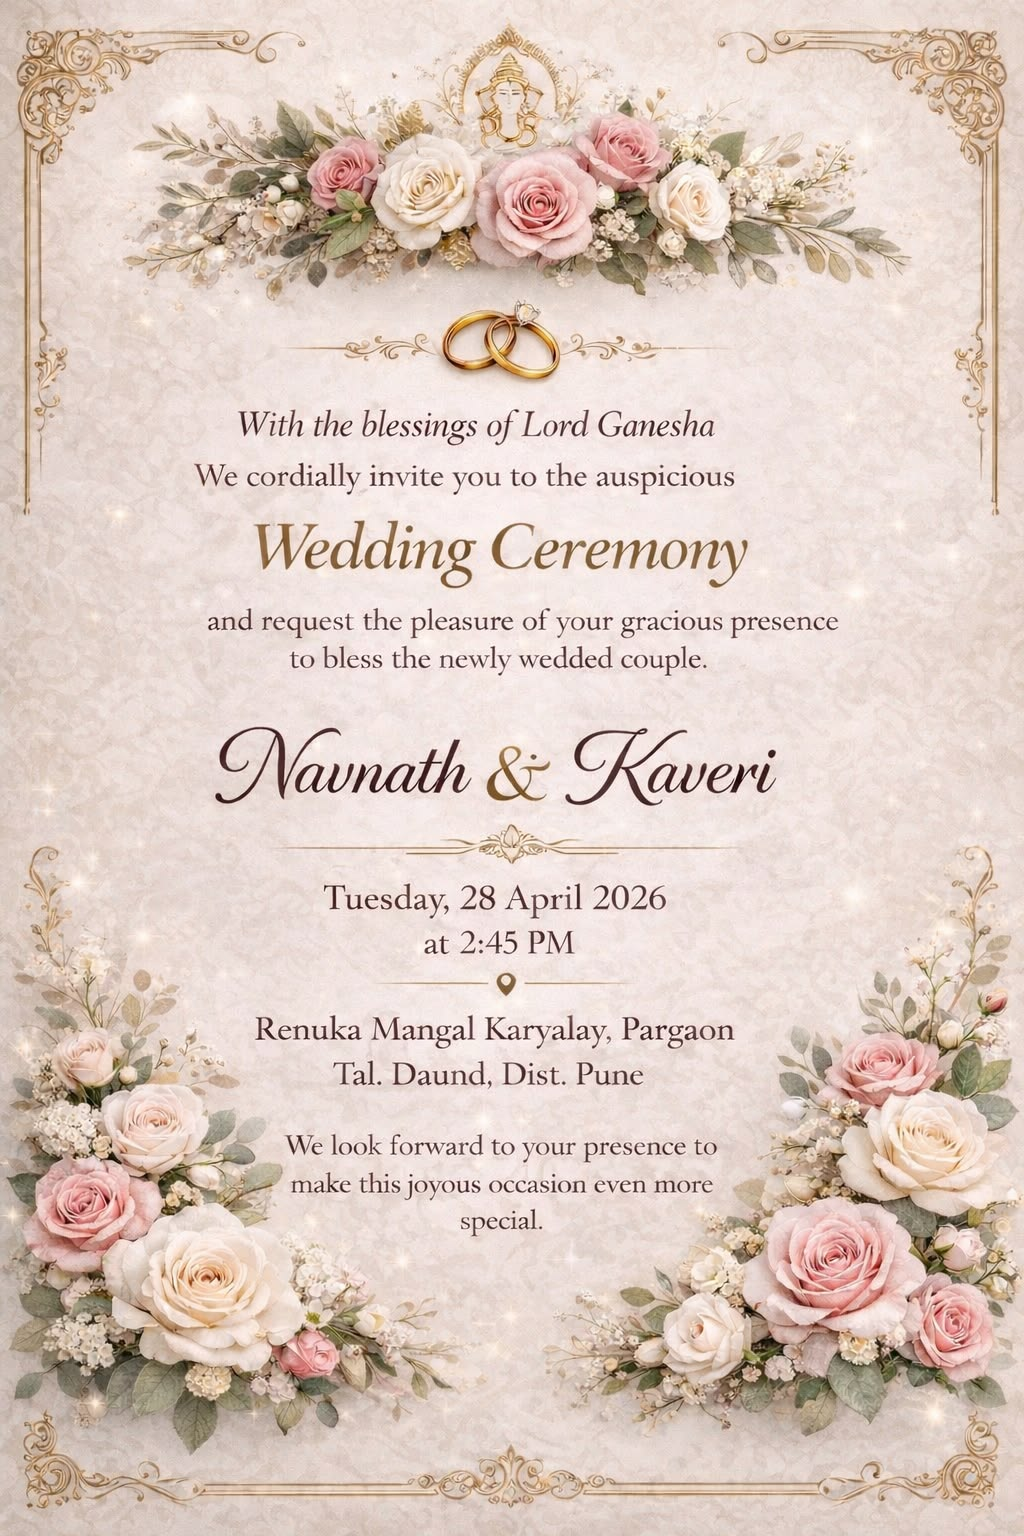
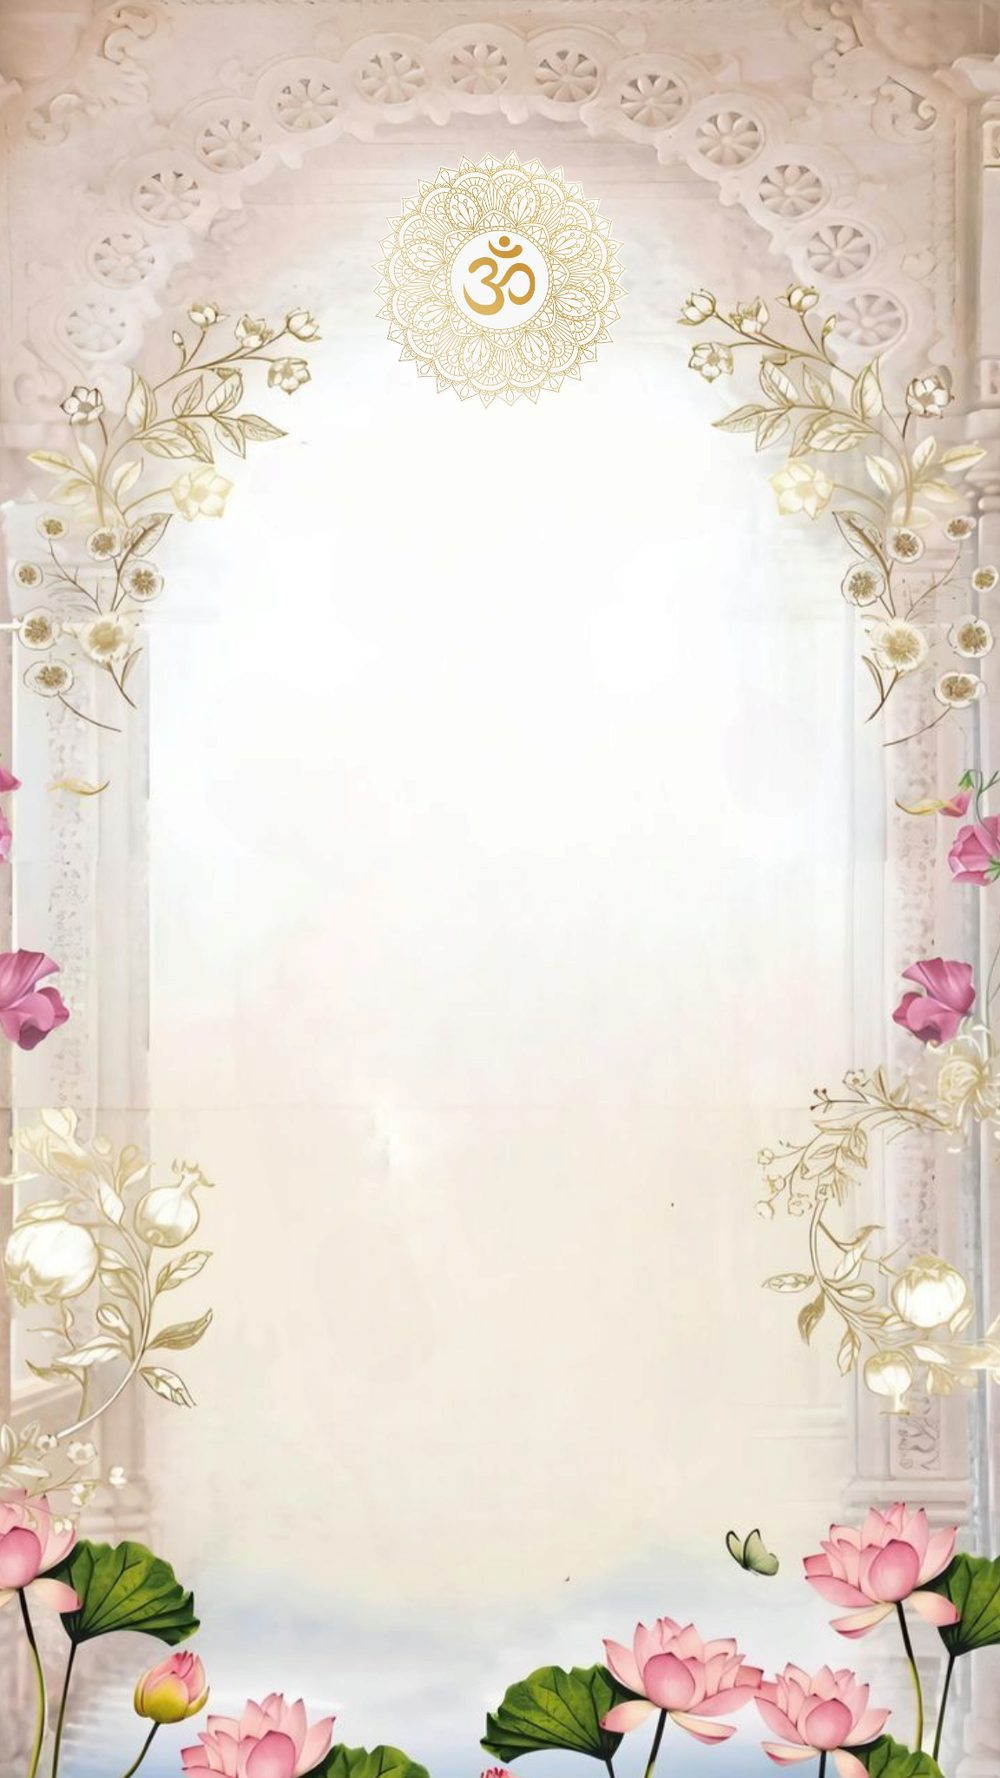
Swap 3 fixed styles to their real reference-site backgrounds
Muslim (Rihana & Suhail), Hindu (Vardhan & Gayathri), and Christian
(Arjun & Meghana) now use their actual reference site's background
asset as a fixed poster-kind template instead of an abstract color
preset, matching the other 6 styles. Sinan & Rifa keeps the flexible
envelope shell but its color preset now matches that site's real
sky-blue/navy/gold palette instead of the placeholder emerald-gold.
Usman & Aisha and Navnath & Kaveri get cleaner text-free background
assets, resolving the baked-in-text ghosting from the previous images.

diff --git a/lib/templates/posterVariants.ts b/lib/templates/posterVariants.ts
@@ -39,17 +39,18 @@ export const TEMPLATE_VARIANTS: TemplateVariant[] = [
     kind: 'envelope',
     religion: 'islamic',
     label: 'Sinan & Rifa style',
-    colorPresetId: 'emerald-gold',
+    colorPresetId: 'sky-gold',
     thumbnail: '/gallery/demo-fairooz-wedding.jpg',
     demo: { brideName: 'Rifa', groomName: 'Sinan', date: '2026-11-22', time: '5:00 PM – 8:00 PM', venue: 'Crescent Banquet Hall', venueCity: 'Kozhikode, Kerala' },
   },
   {
     id: 'muslim-red',
-    kind: 'envelope',
+    kind: 'poster',
     religion: 'islamic',
     label: 'Rihana & Suhail style',
-    colorPresetId: 'crimson-gold',
-    thumbnail: '/gallery/demo-wedding-invitation-two.jpg',
+    backgroundImage: '/backgrounds/muslim-rihana-suhail.jpg',
+    thumbnail: '/backgrounds/muslim-rihana-suhail.jpg',
+    accent: { ink: '#3D0A0A', accent: '#8B1A1A', gold: '#C9A84C', cardBg: '#FFF6EA' },
     demo: { brideName: 'Rihana', groomName: 'Suhail', date: '2026-12-12', time: '4:00 PM – 7:00 PM', venue: 'Al Fajr Convention Centre', venueCity: 'Kondotty, Kerala' },
   },
   {
@@ -66,11 +67,12 @@ export const TEMPLATE_VARIANTS: TemplateVariant[] = [
   // ── Hindu ───────────────────────────────────────────────────────────
   {
     id: 'hindu-ganesh',
-    kind: 'envelope',
+    kind: 'poster',
     religion: 'hindu',
     label: 'Vardhan & Gayathri style',
-    colorPresetId: 'maroon-gold',
-    thumbnail: '/gallery/wedding-vardhan-gayathri.jpg',
+    backgroundImage: '/backgrounds/hindu-vardhan-gayathri.jpg',
+    thumbnail: '/backgrounds/hindu-vardhan-gayathri.jpg',
+    accent: { ink: '#3A1408', accent: '#7A2413', gold: '#B8860B', cardBg: '#F7F0DE' },
     demo: { brideName: 'Gayathri Devi', groomName: 'Vardhan', date: '2026-09-05', time: '11:00 AM (Muhurtham)', venue: 'Sri Kalyana Mandapam', venueCity: 'Chennai, Tamil Nadu' },
   },
   {
@@ -97,11 +99,12 @@ export const TEMPLATE_VARIANTS: TemplateVariant[] = [
   // ── Christian ───────────────────────────────────────────────────────
   {
     id: 'christian-envelope',
-    kind: 'envelope',
+    kind: 'poster',
     religion: 'christian',
     label: 'Arjun & Meghana style',
-    colorPresetId: 'ivory-gold',
-    thumbnail: '/gallery/wedding-arjun-meghana.jpg',
+    backgroundImage: '/backgrounds/christian-arjun-meghana.jpg',
+    thumbnail: '/backgrounds/christian-arjun-meghana.jpg',
+    accent: { ink: '#3A0D15', accent: '#7B1F2B', gold: '#B8860B', cardBg: '#F3E8D6' },
     demo: { brideName: 'Meghana', groomName: 'Arjun', date: '2026-05-23', time: '4:00 PM', venue: 'St. Thomas Church', venueCity: 'Bengaluru, Karnataka' },
   },
   {

diff --git a/lib/templates/religion-themes.ts b/lib/templates/religion-themes.ts
@@ -56,6 +56,22 @@ export const RELIGION_PRESETS: Record<Religion, ColorPreset[]> = {
       petalPrimary: '#8AA669',
       petalSecondary: '#5C7A45',
     },
+    {
+      id: 'sky-gold',
+      name: 'Sky & Gold',
+      ink: '#16283A',
+      accent: '#1E3A52',
+      accentDeep: '#16283A',
+      accentDarkest: '#0E1B28',
+      gold: '#C9A961',
+      goldBright: '#DDC084',
+      label: '#A9863F',
+      cardBg: '#F7F4EE',
+      bodyBg: '#F1F7FB',
+      pageBgStops: ['#F1F7FB', '#E3EDF6', '#D2E2EF', '#BCD4E6'],
+      petalPrimary: '#1E3A52',
+      petalSecondary: '#C9A961',
+    },
   ],
   christian: [
     {
